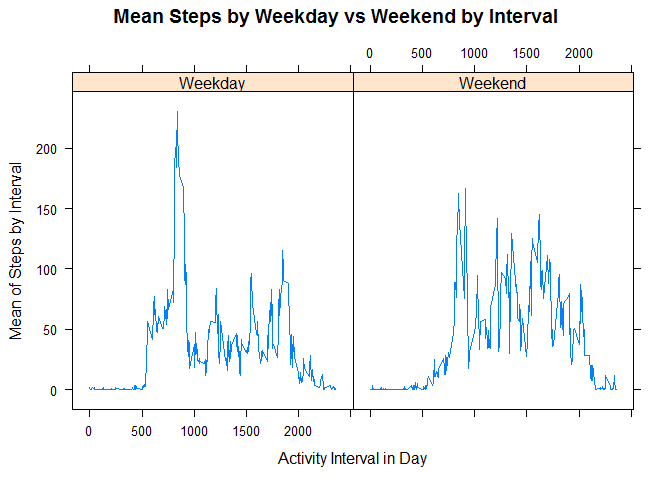
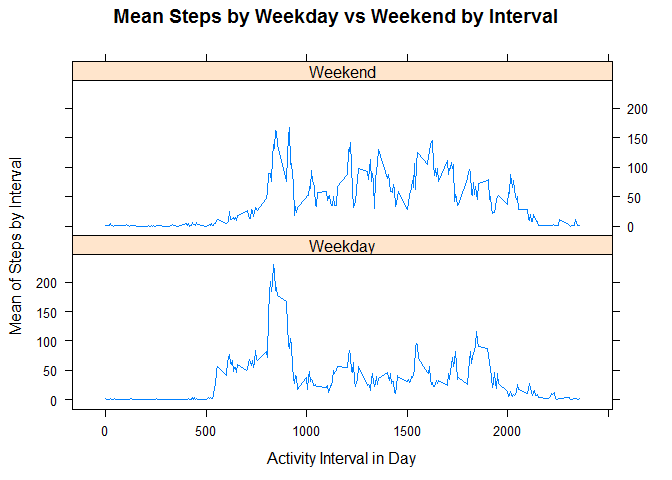
Updating orientation of last panel plot

diff --git a/PA1_template.html b/PA1_template.html
@@ -162,7 +162,7 @@ hist(imputedByDay$x, xlab=&quot;Steps Der Day&quot;, main=&quot;Histogram of Ste
 <div id="are-there-differences-in-activity-patterns-between-weekdays-and-weekends" class="section level2">
 <h2>Are there differences in activity patterns between weekdays and weekends?</h2>
 <div id="create-a-new-factor-variable-in-the-dataset-with-two-levels---weekday-and-weekend-indicating-whether-a-given-date-is-a-weekday-or-weekend-day." class="section level3">
-<h3>1Create a new factor variable in the dataset with two levels - “weekday” and “weekend” indicating whether a given date is a weekday or weekend day.</h3>
+<h3>1. Create a new factor variable in the dataset with two levels - “weekday” and “weekend” indicating whether a given date is a weekday or weekend day.</h3>
 <p>This section creates a boolean variable based on the is.weekend() function from the chron library. Then a factor variable is added to the data set to hold the Weekday and Weekend factor values.</p>
 <pre class="r"><code>imputedDataSet$isWeekend &lt;- is.weekend(imputedDataSet$date)
 activityByDayTypeByInterval &lt;- aggregate(imputedDataSet[,c(&quot;steps&quot;)],by=list(imputedDataSet$interval, imputedDataSet$isWeekend),&quot;mean&quot;)
@@ -172,8 +172,8 @@ activityByDayTypeByInterval[activityByDayTypeByInterval$Group.2==TRUE,4] &lt;- &
 <div id="make-a-panel-plot-containing-a-time-series-plot-i.e.type-l-of-the-5-minute-interval-x-axis-and-the-average-number-of-steps-taken-averaged-across-all-weekday-days-or-weekend-days-y-axis." class="section level3">
 <h3>2. Make a panel plot containing a time series plot (i.e. type = “l”) of the 5-minute interval (x-axis) and the average number of steps taken, averaged across all weekday days or weekend days (y-axis).</h3>
 <p>The lattice package xyplot is used to create a panel plot showing the mean steps by interval for Weekday vs Weekend.</p>
-<pre class="r"><code>xyplot(activityByDayTypeByInterval$x ~ activityByDayTypeByInterval$Group.1 | activityByDayTypeByInterval$V4, activityByDayTypeByInterval,type=&quot;l&quot;, xlab=&quot;Activity Interval in Day&quot;, ylab=&quot;Mean of Steps by Interval&quot;, main=&quot;Mean Steps by Weekday vs Weekend by Interval&quot;)</code></pre>
[1 lines of base64/hex data omitted]
+<pre class="r"><code>xyplot(activityByDayTypeByInterval$x ~ activityByDayTypeByInterval$Group.1 | activityByDayTypeByInterval$V4, layout=c(1,2),activityByDayTypeByInterval,type=&quot;l&quot;, xlab=&quot;Activity Interval in Day&quot;, ylab=&quot;Mean of Steps by Interval&quot;, main=&quot;Mean Steps by Weekday vs Weekend by Interval&quot;)</code></pre>
[1 lines of base64/hex data omitted]
 </div>
 </div>
 

diff --git a/PA1_template.md b/PA1_template.md
@@ -154,7 +154,7 @@ The median moved slightly towards the mean because we added many values exactly 
 
 ## Are there differences in activity patterns between weekdays and weekends?
 
-###1Create a new factor variable in the dataset with two levels - "weekday" and "weekend" indicating whether a given date is a weekday or weekend day.
+###1. Create a new factor variable in the dataset with two levels - "weekday" and "weekend" indicating whether a given date is a weekday or weekend day.
 
 This section creates a boolean variable based on the is.weekend() function from the chron library. Then a factor variable is added to the data set  to hold the Weekday and Weekend factor values.
 
@@ -172,7 +172,7 @@ The lattice package xyplot is used to create a panel plot showing the mean steps
 
 
 ```r
-xyplot(activityByDayTypeByInterval$x ~ activityByDayTypeByInterval$Group.1 | activityByDayTypeByInterval$V4, activityByDayTypeByInterval,type="l", xlab="Activity Interval in Day", ylab="Mean of Steps by Interval", main="Mean Steps by Weekday vs Weekend by Interval")
+xyplot(activityByDayTypeByInterval$x ~ activityByDayTypeByInterval$Group.1 | activityByDayTypeByInterval$V4, layout=c(1,2),activityByDayTypeByInterval,type="l", xlab="Activity Interval in Day", ylab="Mean of Steps by Interval", main="Mean Steps by Weekday vs Weekend by Interval")
 ```
 
 ![](PA1_template_files/figure-html/unnamed-chunk-17-1.png) 
